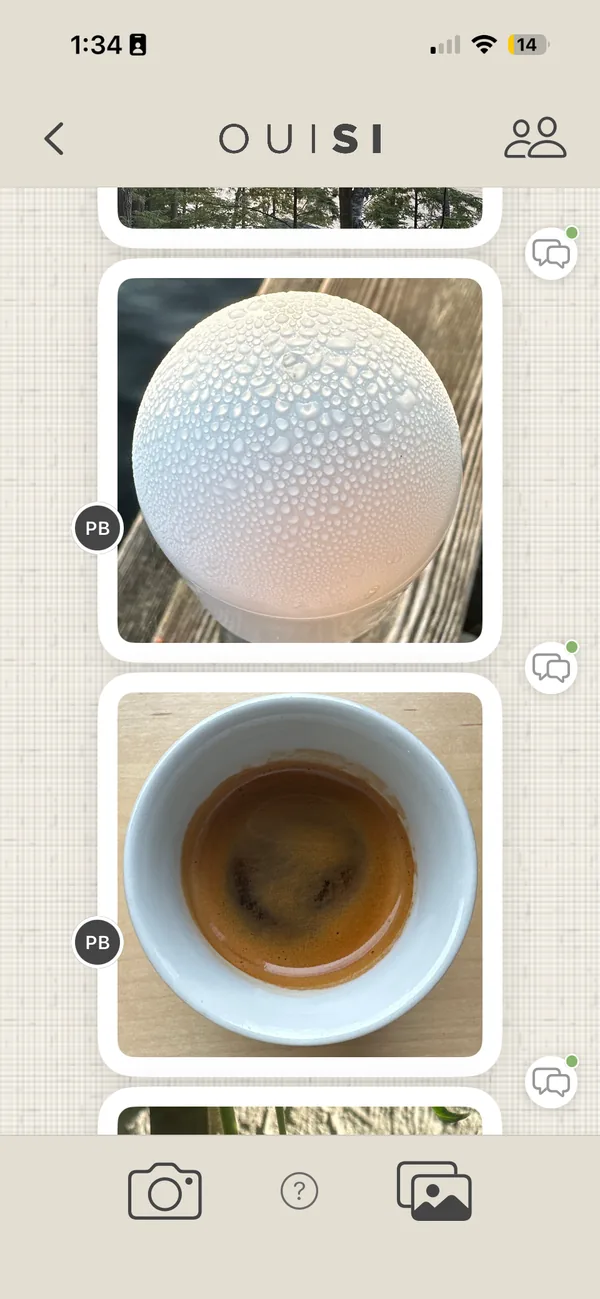
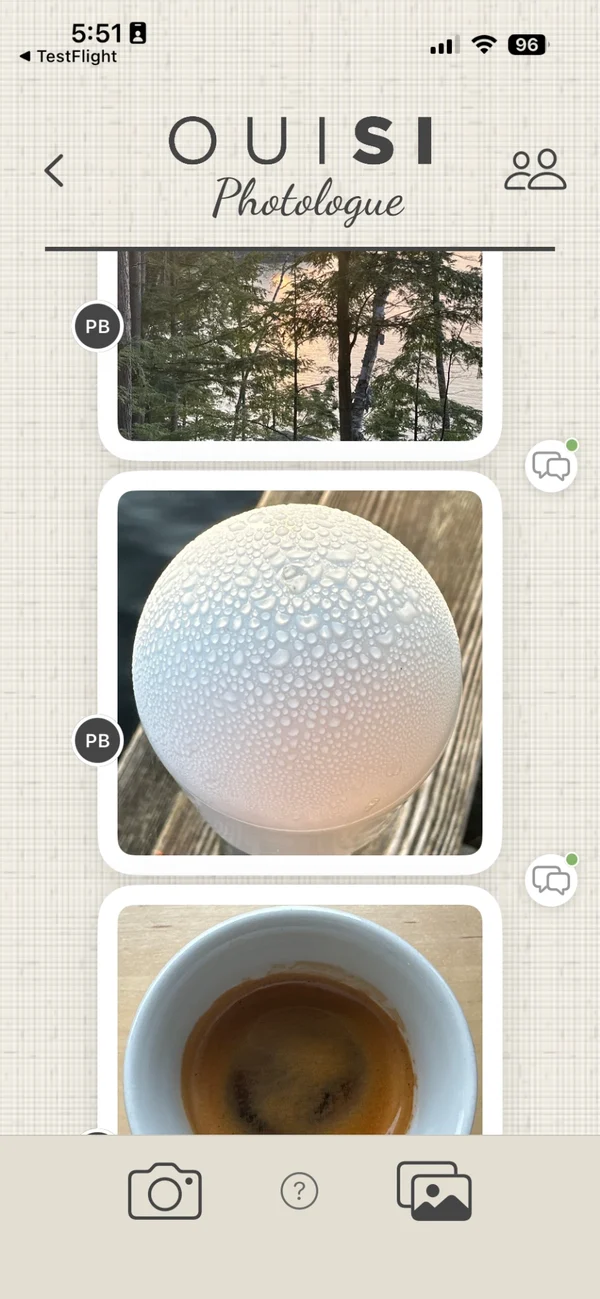
iPhone frames on app screenshots; updated Photologue thread screenshot

diff --git a/css/site.css b/css/site.css
@@ -240,10 +240,13 @@ body.menu-open{overflow:hidden}
 /* ---------- the app pages: iPhone screenshots (Paul, 2026-10-26) ----------
    A screenshot at the iPhone's own shape, corners matched to the screen's. Until Paul's screenshots
    arrive, a placeholder of the same shape stands in, labelled with the screen and the file it wants. */
-.shot{margin:0;width:100%;aspect-ratio:1179/2556;border-radius:14% / 6.46%;overflow:hidden;background:#fff;box-shadow:0 2px 6px rgba(40,40,40,.08),0 18px 40px rgba(40,40,40,.14)}
-.shot img{width:100%;height:100%;object-fit:cover}
-.shot.art{border-radius:10px}
-.shot.ph{display:flex;flex-direction:column;align-items:center;justify-content:center;gap:10px;padding:0 12%;background:#ECE8DC;border:1px solid var(--line);box-shadow:none;color:var(--ink-2);text-align:center}
+/* each screenshot in an iPhone frame (Paul, 10-29), drawn in CSS: a 3.2% bezel around a 1179×2556 screen, and the
+   Dynamic Island over the status bar. The outer ratio is the screen's plus the bezel: 1179 / 2468. */
+.shot{position:relative;margin:0;width:100%;aspect-ratio:1179/2468;padding:3.2%;border-radius:16% / 7.6%;overflow:hidden;background:#1d1d1f;box-shadow:inset 0 0 0 1px #3a3a3c,0 2px 6px rgba(40,40,40,.08),0 18px 40px rgba(40,40,40,.14)}
+.shot img{display:block;width:100%;height:100%;object-fit:cover;border-radius:13.5% / 6.2%}
+.shot:not(.ph):not(.art)::after{content:"";position:absolute;top:2.6%;left:36.5%;width:27%;height:3.7%;border-radius:99px;background:#000}
+.shot.art{aspect-ratio:auto;padding:0;background:#fff;border-radius:10px}
+.shot.ph{padding:0 12%;display:flex;flex-direction:column;align-items:center;justify-content:center;gap:10px;padding:0 12%;background:#ECE8DC;border:1px solid var(--line);box-shadow:none;color:var(--ink-2);text-align:center}
 .shot.ph .eb{font-size:11px;letter-spacing:1px}
 .shot-name{font-family:var(--display);font-weight:700;font-size:15px;line-height:1.25;color:var(--ink)}
 .shot-file{font-size:11px;line-height:1.3;overflow-wrap:anywhere}
